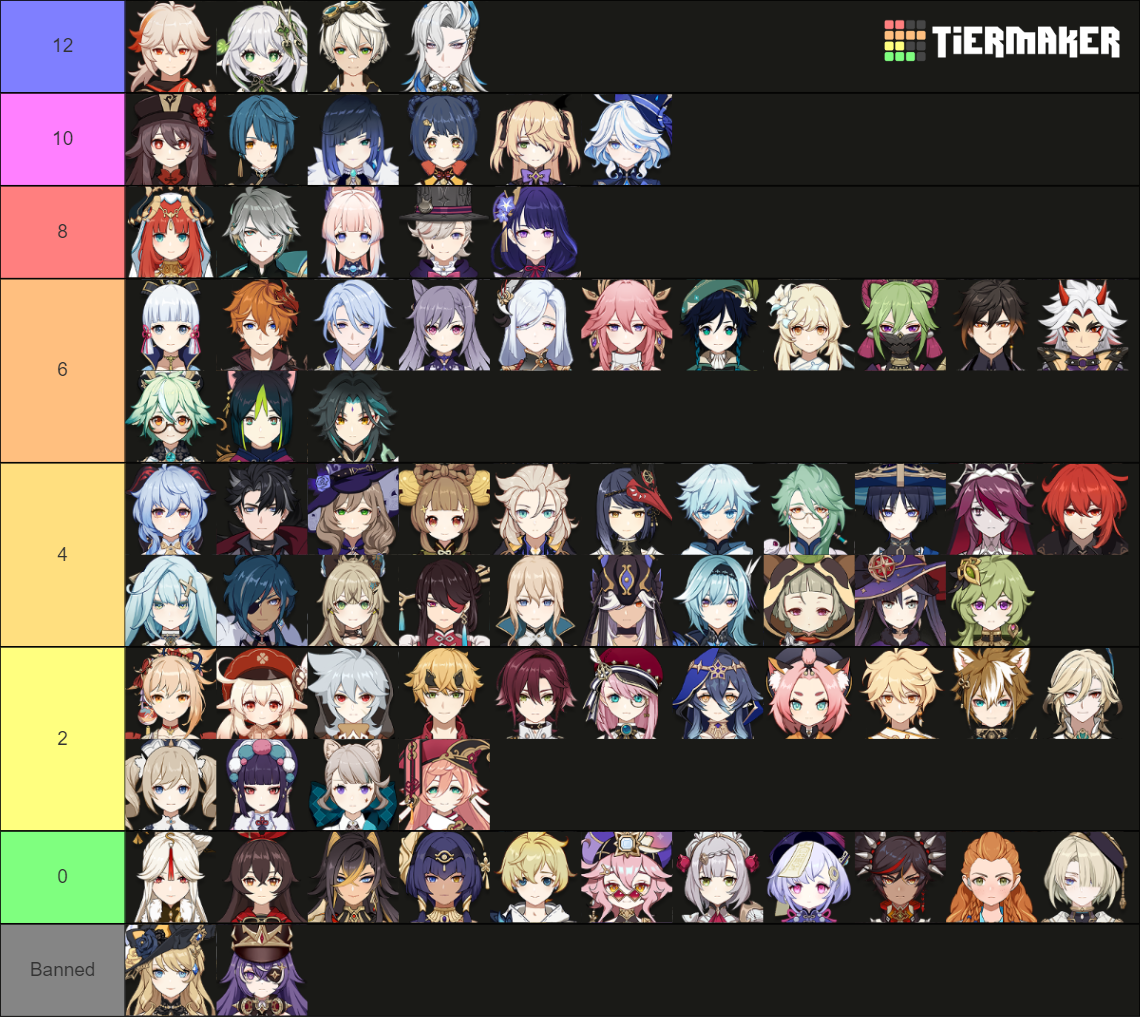
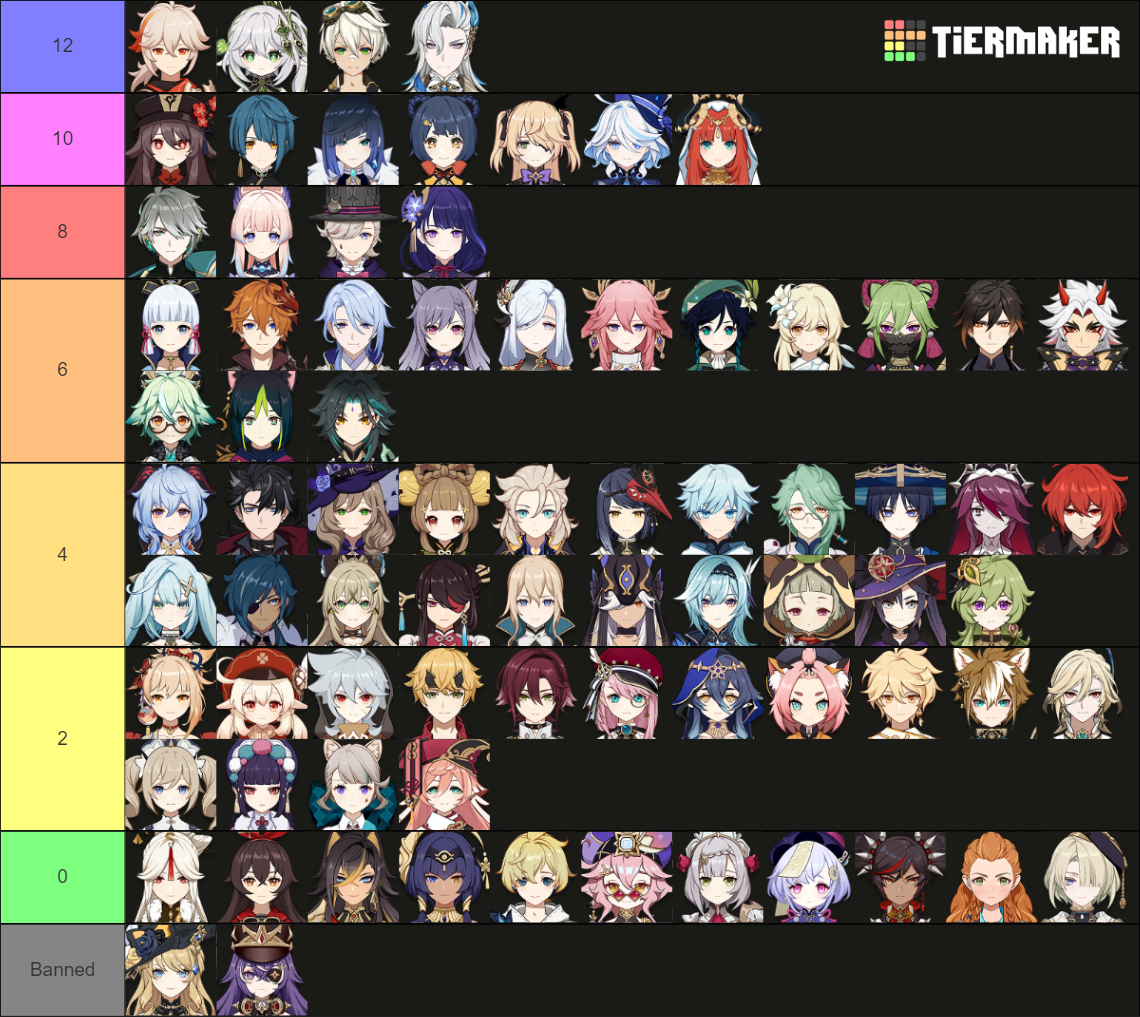
Cycle 2 pre update

Changed region(s): [[0.0921, 0.1829, 0.5219, 0.2743], [0.5833, 0.0914, 0.6754, 0.1829]]

diff --git a/WalmartBets.js b/WalmartBets.js
@@ -512,7 +512,7 @@ function loadManualCharacterCosts() {
     Ayato: ["Hydro", 5, "Sword", 6],
     Tartaglia: ["Hydro", 5, "Bow", 6],
     Mona: ["Hydro", 5, "Catalyst", 4],
-    Nilou: ["Hydro", 5, "Sword", 8],
+    Nilou: ["Hydro", 5, "Sword", 10],
     Neuvillette: ["Hydro", 5, "Catalyst", 12],
     Furina: ["Hydro", 5, "Sword", 10],
     Bennett: ["Pyro", 4, "Sword", 12],
